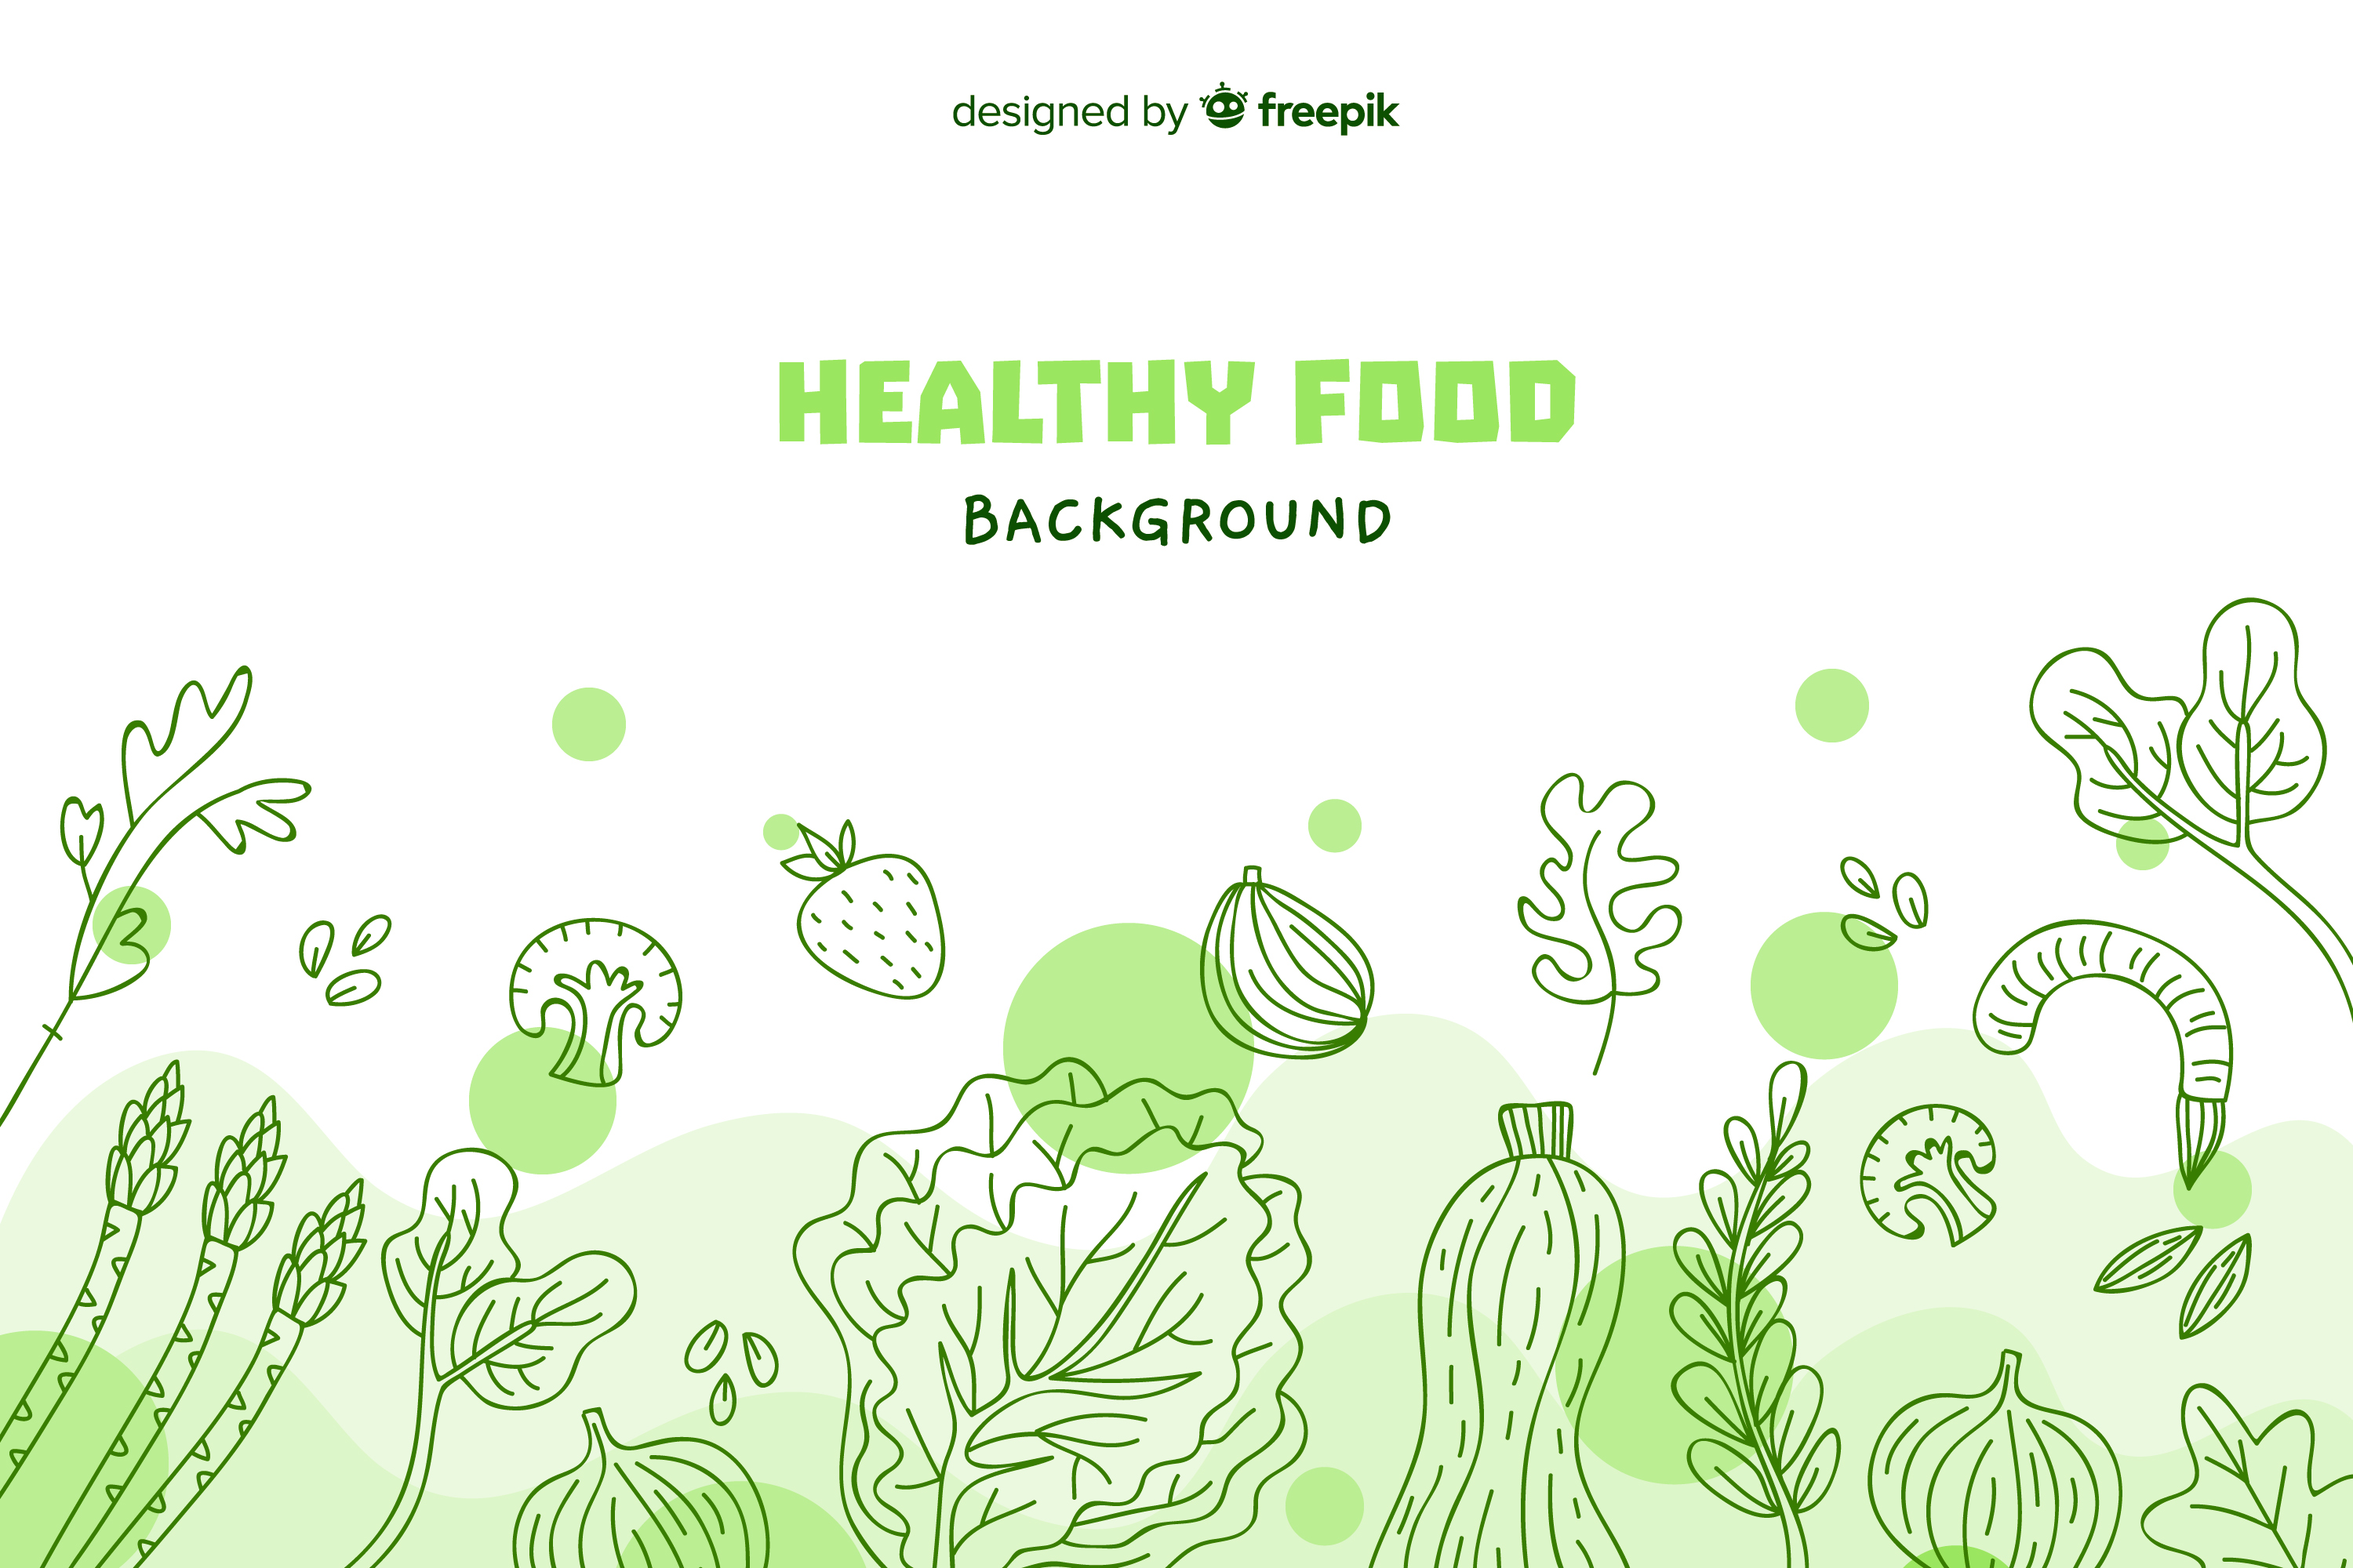
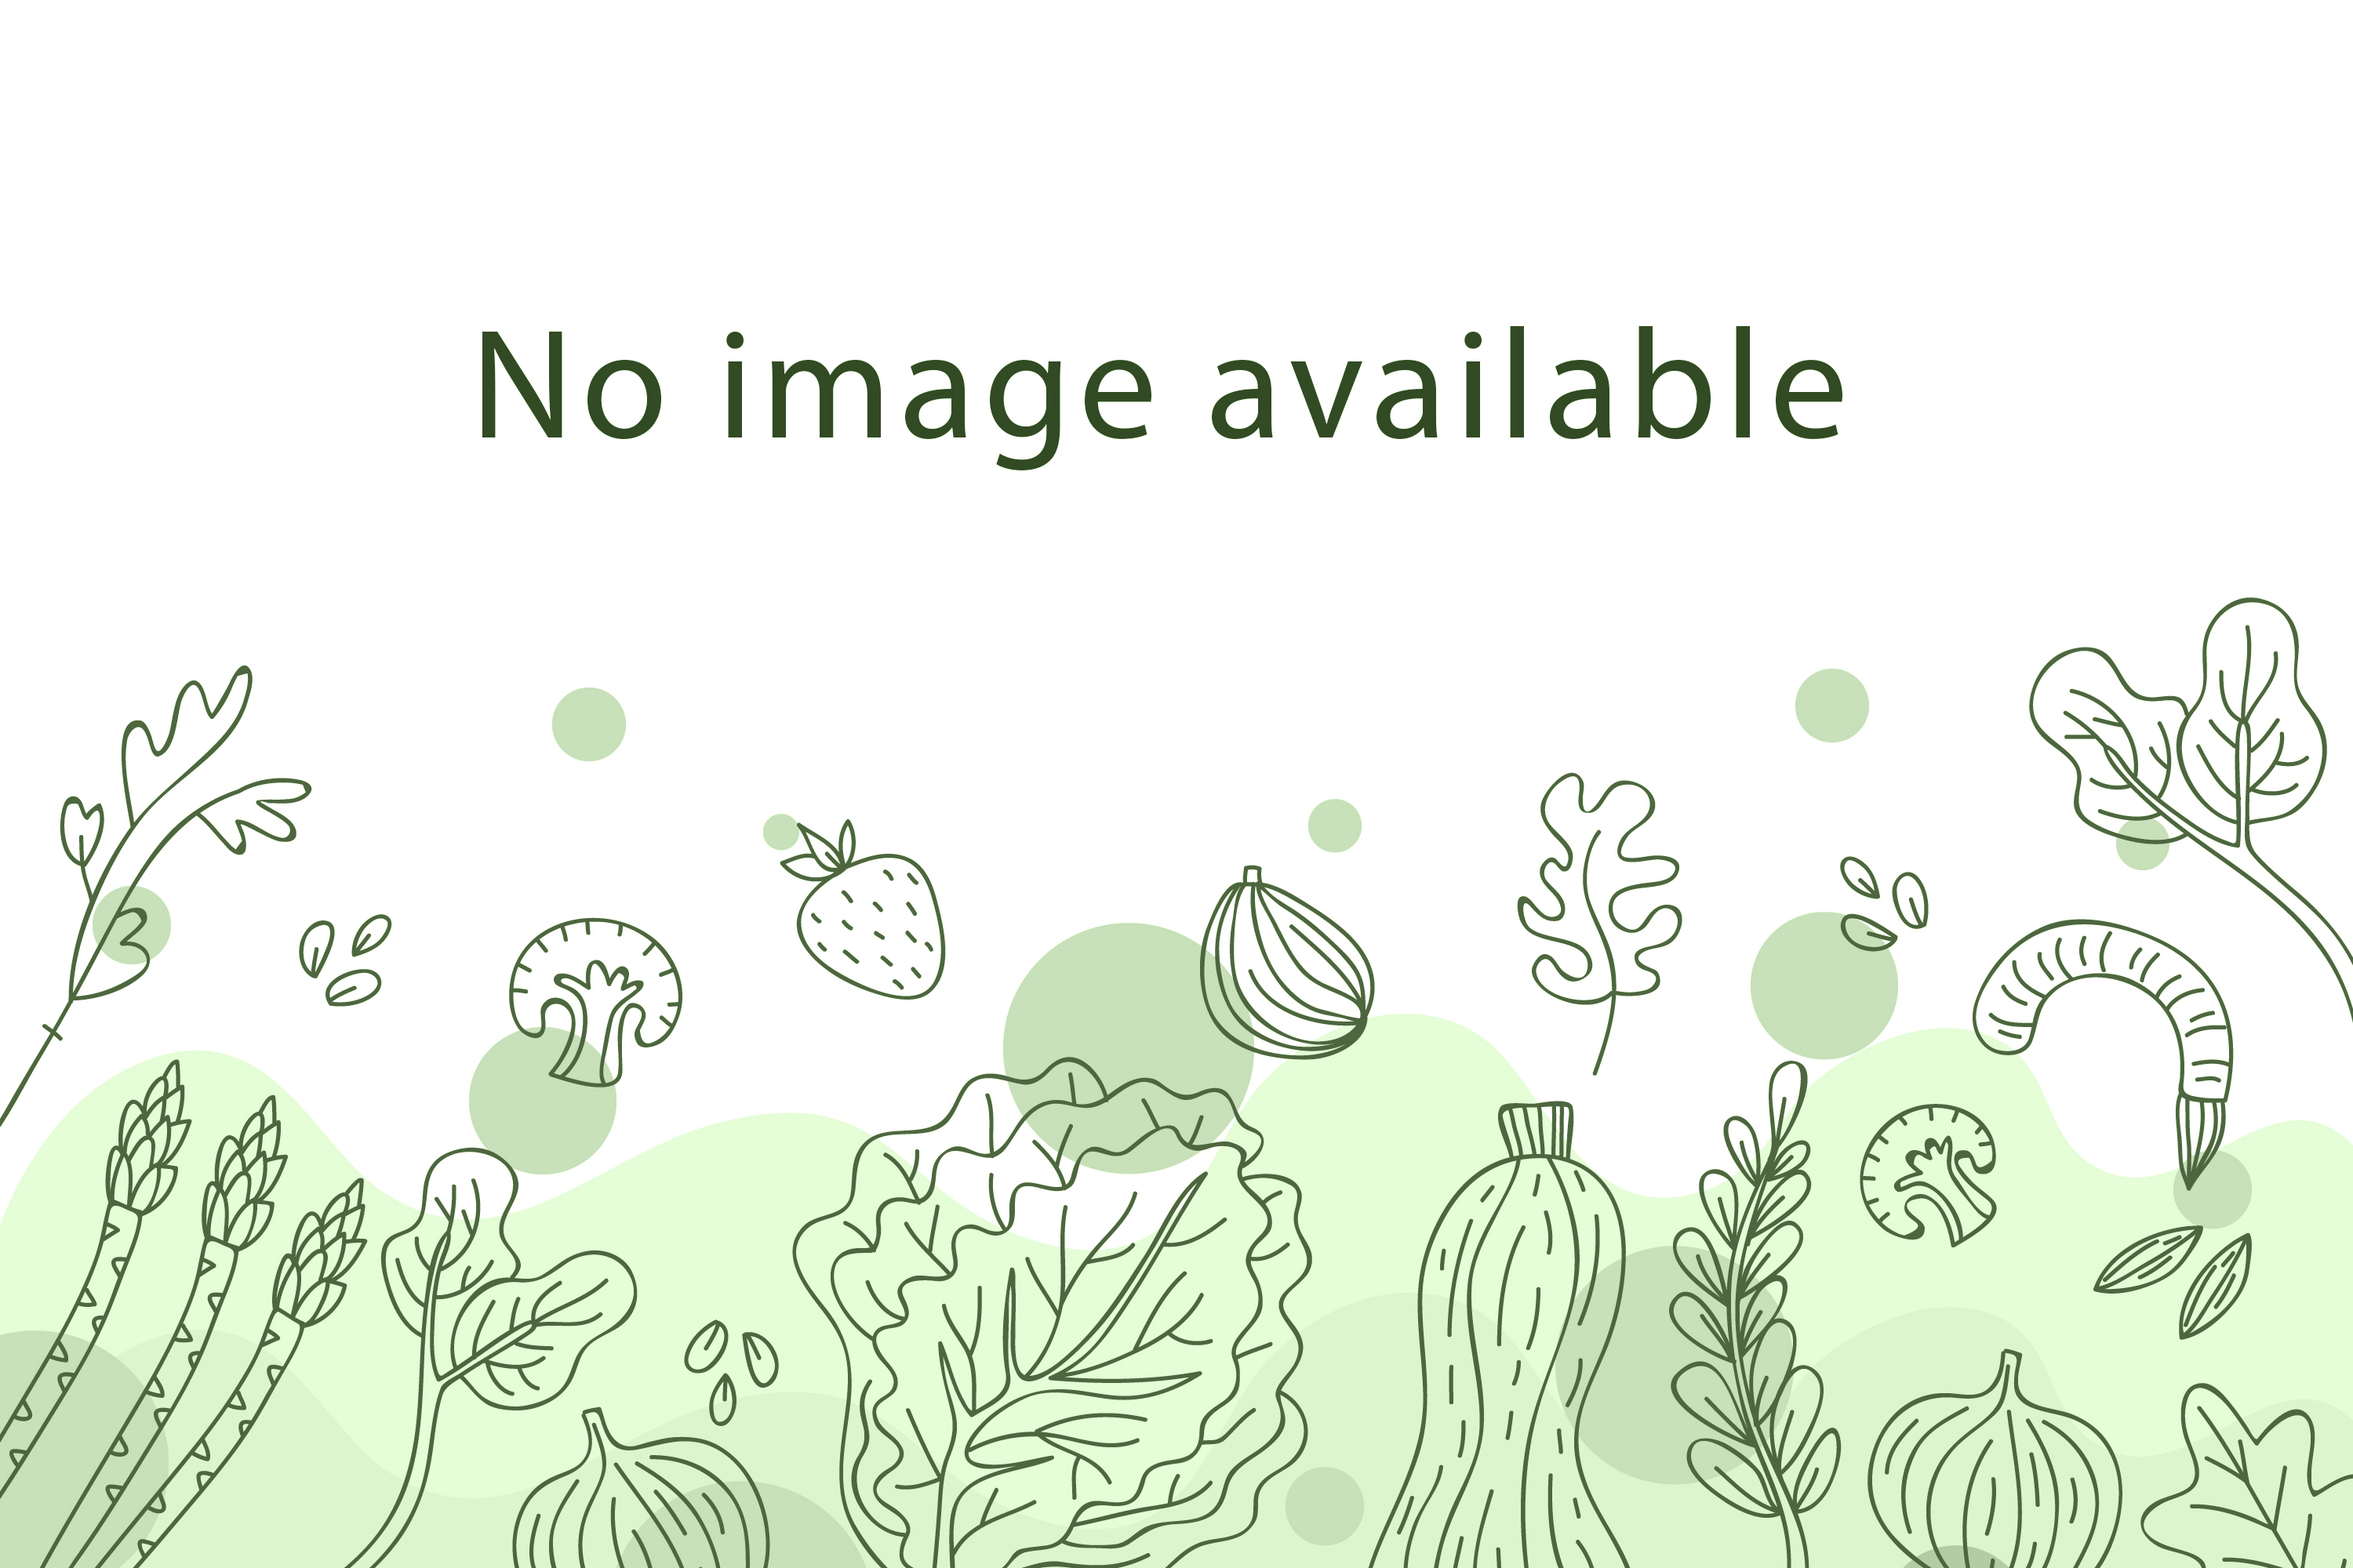
change default-image

diff --git a/src/components/RecipeDetail.jsx b/src/components/RecipeDetail.jsx
@@ -27,7 +27,7 @@ export default function RecipeDetail() {
 
       {recipeData && Object.keys(recipeData).length > 0 && (
         <div className="m-5 sm:shadow-sm lg:shadow-none grid lg:grid-cols-2 lg:gap-8" key={recipeData.id}>
-          <img className="rounded-t-md lg:rounded-md lg:shadow-sm" src={defaultImage} />
+          <img className="rounded-t-md lg:rounded-md lg:shadow-sm" src={recipeData.image ? recipeData.image : defaultImage} />
 
           <div className="bg-white p-5 md:px-6 lg:px-10 rounded-b-md lg:rounded-md lg:shadow-sm">
             <div className="text-primary flex justify-between">
@@ -41,7 +41,7 @@ export default function RecipeDetail() {
               {recipeData.dairyFree === true ? <div className="label">Dairy free</div> : null}
             </div>
 
-            <div className="p-2 text-sm">
+            <div className="py-2 text-sm">
               <p className="my-2">
                 <span className="bold">
                   <i className="bx bxs-time-five"></i> Time:
